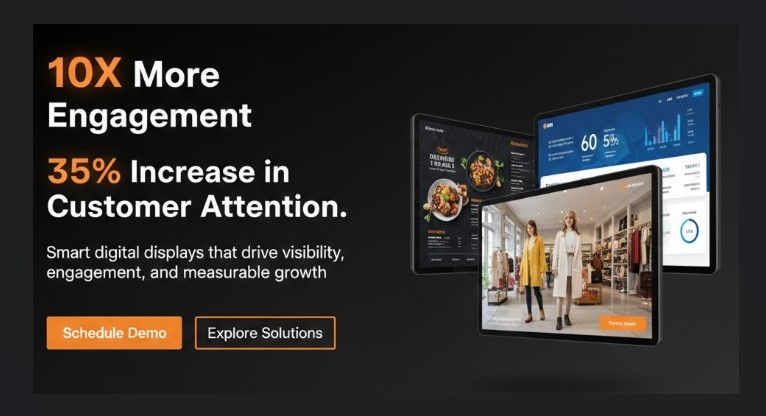
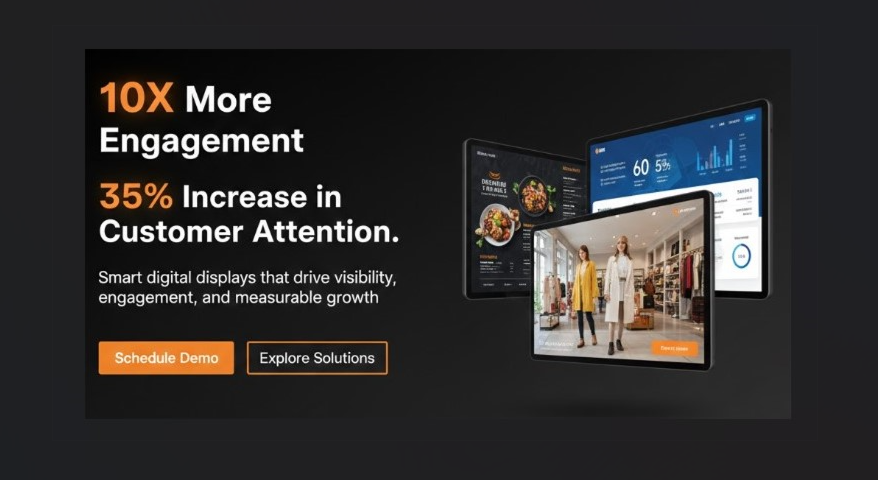
wp changes made as written

Changed region(s): [[0.5104, 0.1875, 0.9608, 0.8438], [0.03, 0.0312, 0.4504, 0.5312], [0.0601, 0.5625, 0.4504, 0.8438]]

diff --git a/Frontend/src/pages/Home.jsx b/Frontend/src/pages/Home.jsx
@@ -487,11 +487,11 @@ export default function Home({ isAdminMode = false }) {
                 {/* Matte Black Bezel */}
                 <div className="relative bg-black rounded-[2rem] p-[4px] shadow-[0_30px_60px_rgba(0,0,0,0.35)]">
                   {/* Screen Area */}
-                  <div
-                    className={`relative rounded-[1.5rem] overflow-hidden transition-all duration-700 ${
-                      fade ? "opacity-100 scale-100" : "opacity-0 scale-[1.01]"
-                    } w-[calc(100vw-3rem)] h-[56vw] sm:w-[420px] sm:h-[240px] md:w-[640px] md:h-[360px]`}
-                  >
+                 <div
+  className={`relative rounded-[1.5rem] overflow-hidden transition-all duration-700 ${
+    fade ? "opacity-100 scale-100" : "opacity-0 scale-[1.01]"
+  } w-full max-w-[640px] aspect-video`}
+>
                     {currentItem.type === "image" ? (
                       <img
                         src={currentItem.src}
@@ -578,8 +578,7 @@ export default function Home({ isAdminMode = false }) {
         <div className="relative z-10 max-w-7xl mx-auto px-4 sm:px-6 grid md:grid-cols-[1fr_1.1fr] gap-10 md:gap-16 items-center">
           {" "}
           {/* LEFT SIDE – WALL TV */}
-          <div className="relative flex justify-center md:justify-start items-start pt-12 pb-16 md:pt-24 md:pb-32 ml-0 md:-ml-12">
-            <div
+<div className="relative flex justify-center md:justify-end w-full">            <div
               className="absolute w-full max-w-[560px] h-[315px] 
   bg-black/40 blur-2xl translate-y-10 rounded-lg hidden md:block"
             ></div>

diff --git a/Frontend/src/components/Navbar.jsx b/Frontend/src/components/Navbar.jsx
@@ -255,9 +255,12 @@ export default function Navbar() {
               </Link>
               <button
                 className="px-6 py-2.5 rounded-xl text-sm font-semibold text-white bg-gradient-to-r from-sky-500 to-blue-500 shadow-md"
-                onClick={() => { setMobileMenuOpen(false); }}
+                onClick={() => {
+                  setMobileMenuOpen(false);
+                  navigate("/start-advertising");
+                }}
               >
-                Get Quote
+                Start Advertising
               </button>
             </div>
           </div>

diff --git a/Frontend/src/pages/Contact.jsx b/Frontend/src/pages/Contact.jsx
@@ -175,7 +175,7 @@ export default function Contact() {
                 </div>
                 <div>
                   <h4 className="font-semibold text-slate-900">Headquarters</h4>
-                  <p className="text-slate-600 text-sm mt-1 leading-relaxed">Tech Park, Phase 1<br/>Pune, Maharashtra, India</p>
+                  <p className="text-slate-600 text-sm mt-1 leading-relaxed">33/6/2, Lane 9 , Chandrabhaga Nagar, Dhankawadi, <br/>Pune, Maharashtra 411046</p>
                 </div>
               </div>
 

diff --git a/Frontend/src/components/Footer.jsx b/Frontend/src/components/Footer.jsx
@@ -51,7 +51,7 @@ export default function Footer() {
           <div>
             <h4 className="text-lg font-semibold text-white mb-4">Contact</h4>
             <ul className="space-y-3 text-sm text-slate-400">
-              <li>Pune, Maharashtra</li>
+              <li>33/6/2, Lane 9 , Chandrabhaga Nagar, Dhankawadi, <br />Pune, Maharashtra 411046</li>
               <li>+91 8668223495</li>
               <li>contact@a2kscreens.in</li>
             </ul>
